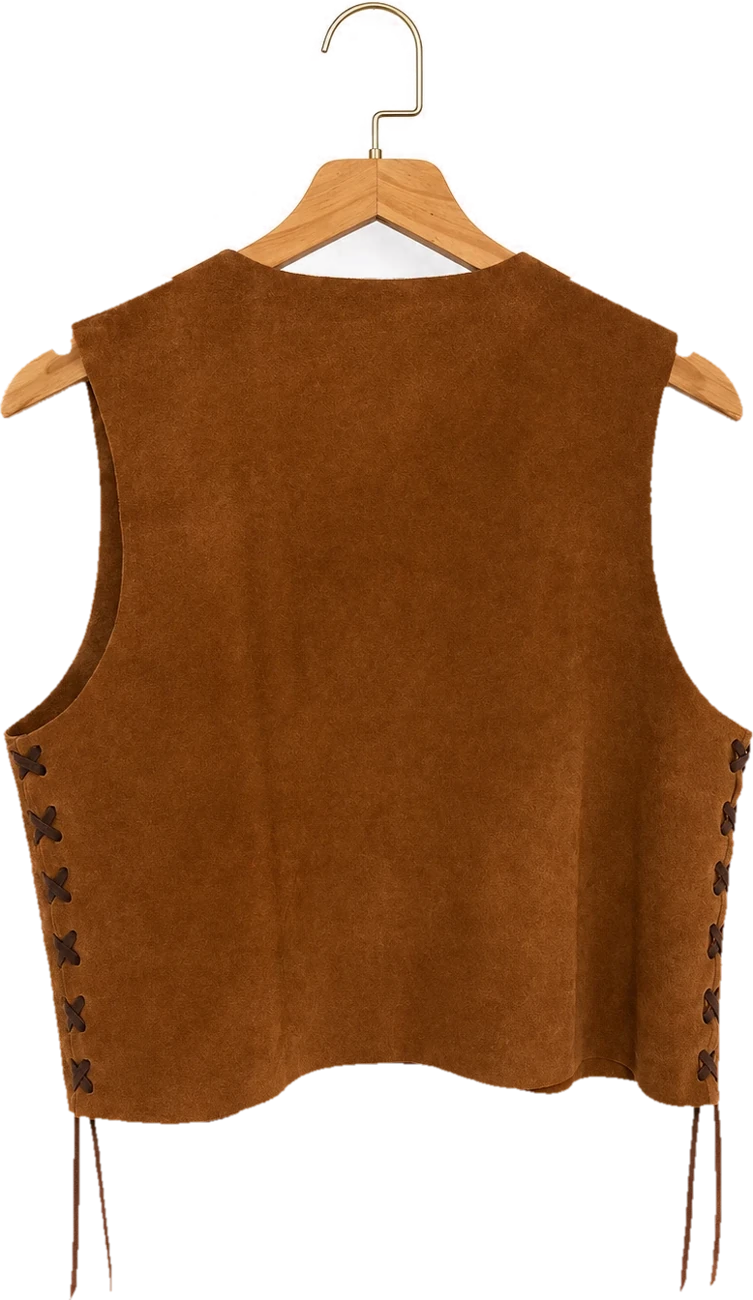
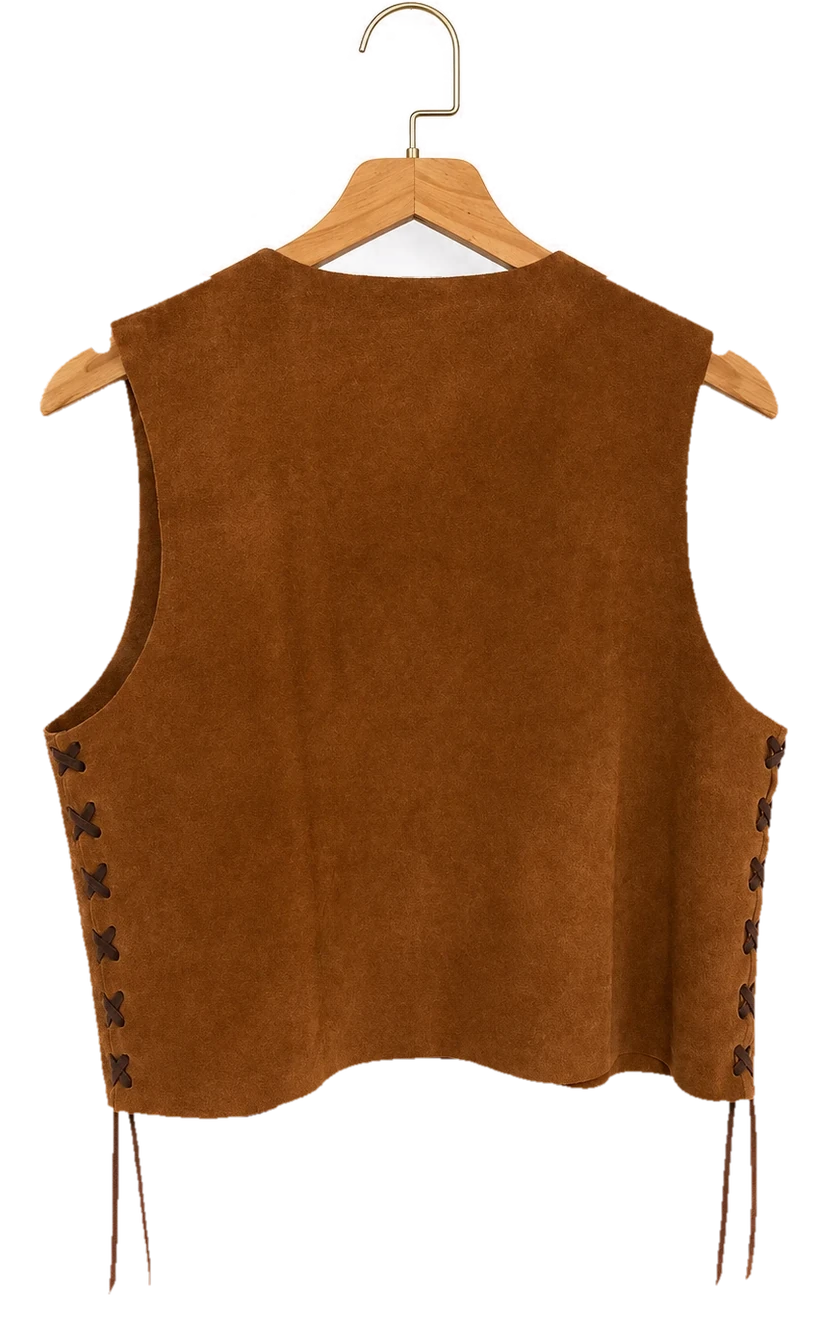
TIRRA: Chaleco Latte Básico, perchas parejas y pieza abierta con miniaturas de detalle
Claude-Session: https://claude.ai/code/session_01FHVGg6LRu9CuR4S83BY3x6

diff --git a/patria/tirra.js b/patria/tirra.js
@@ -212,22 +212,23 @@
      de frente y empuja a las vecinas; cada percha se balancea según cómo se
      mueve. Clic (o segundo toque) la descuelga y se puede girar arrastrando. */
   var PIEZAS = [
-    // hookX / hookXb: dónde está el gancho en cada foto (0 = izquierda, 1 = derecha)
-    { id: "pec-cria",   img: "images/perch-pec-cria.webp?v=6", espalda: "images/perch-pec-cria-b.webp?v=6", hookX: 0.482, hookXb: 0.486 },
-    { id: "cha-cruz",   img: "images/perch-cha-cruz.webp?v=6", espalda: "images/perch-cha-cruz-b.webp?v=6", hookX: 0.506, hookXb: 0.495 }
+    // fotos con la percha, todas en el mismo lienzo (gancho centrado arriba)
+    { id: "pec-cria",  img: "images/perch-pec-cria.webp?v=7",  espalda: "images/perch-pec-cria-b.webp?v=7" },
+    { id: "cha-cruz",  img: "images/perch-cha-cruz.webp?v=7",  espalda: "images/perch-cha-cruz-b.webp?v=7" },
+    { id: "cha-latte", img: "images/perch-cha-latte.webp?v=7", espalda: "images/perch-cha-latte-b.webp?v=7" }
   ].filter(function (x) { return producto(x.id); });
   var riel = document.getElementById("riel");
   var perchero = { abierto: false, cerrar: function () {}, girar: function () {} };
   if (riel && PIEZAS.length) (function () {
-    var ASPECT = 200 / 310, ZOOM = 1.1, GAP = 0.06, MAX_H = 470, MIN_ANCHO = 170, CARRUSEL_H = 360;
-    var n = PIEZAS.length, FAC_MEDIO = PIEZAS.reduce(function (a, x) { return a + (producto(x.id).cat === "collares" ? 0.74 : 1.02); }, 0) / PIEZAS.length, barra = riel.querySelector(".riel__barra");
+    var ASPECT = 200 / 310, ZOOM = 1.1, GAP = 0.06, MAX_H = 470, MIN_ANCHO = 200, CARRUSEL_H = 360;
+    var n = PIEZAS.length, FAC_MEDIO = PIEZAS.reduce(function (a, x) { return a + (producto(x.id).cat === "collares" ? 0.74 : 0.92); }, 0) / PIEZAS.length, barra = riel.querySelector(".riel__barra");
     var nombreEl = document.getElementById("rielNombre"), infoEl = document.getElementById("rielInfo"), puntos = document.getElementById("rielPuntos");
     var tam = { ancho: 0, h: 300, carrusel: false }, activa = null, idxCarrusel = 0, abierta = null, oculta = null;
     var S = { x: [], vx: [], tx: [], esc: [], vesc: [], tesc: [], mece: [], vmece: [], arrastre: -1, agarre: 0, libre: 0, ult: 0, raf: 0 };
     function clamp(v, a, b) { return Math.max(a, Math.min(b, v)); }
     // lugar que ocupa una pieza en la barra (crece con el zoom)
     // los chalecos ocupan toda su caja; los collares, menos
-    function huella(h, esc, i) { var f = i == null ? FAC_MEDIO : (PIEZAS[i]._collar ? 0.74 : 1.02); return h * ASPECT * f * (esc || 1); }
+    function huella(h, esc, i) { var f = i == null ? FAC_MEDIO : (PIEZAS[i]._collar ? 0.74 : 0.92); return h * ASPECT * f * (esc || 1); }
 
     var slots = PIEZAS.map(function (x, i) {
       var p = producto(x.id), b = document.createElement("button");
@@ -430,9 +431,35 @@
       var base = Math.round(A.v / 360) * 360; A.obj = base + (lado === "espalda" ? 180 : 0);
       if (Math.abs(A.obj - A.v) > 180) A.obj -= 360 * Math.sign(A.obj - A.v);
       ladoAct = lado;
-      document.querySelectorAll("#detLados button").forEach(function (b) { b.setAttribute("aria-pressed", String(b.dataset.lado === lado)); });
+      verFoto(null);
+      marcarMini(lado);
       if (REDUCIR) { A.v = A.obj; aplicarGiro(); return; }
       if (!A.raf) A.raf = requestAnimationFrame(girarBucle);
+    }
+    // miniaturas: frente, espalda, detalles y "próximamente"
+    var minis = document.getElementById("detMinis"), fotoEl = document.getElementById("detFoto");
+    function marcarMini(clave) { Array.prototype.forEach.call(minis.children, function (b) { b.setAttribute("aria-pressed", String(b.dataset.clave === clave)); }); }
+    function verFoto(src) {
+      if (!src) { fig.classList.remove("ver-foto"); return; }
+      fotoEl.src = src; fig.classList.add("ver-foto");
+    }
+    function armarMinis(x, p) {
+      minis.innerHTML = "";
+      var lista = [{ clave: "frente", src: x.img, txt: "Frente" }];
+      if (x.espalda) lista.push({ clave: "espalda", src: x.espalda, txt: "Espalda" });
+      (p.fotos || []).forEach(function (f, k) { lista.push({ clave: "foto" + k, src: f, txt: "Detalle " + (k + 1), foto: true }); });
+      lista.push({ clave: "pronto", txt: "Más fotos próximamente" });
+      lista.forEach(function (m) {
+        var b = document.createElement("button"); b.type = "button"; b.dataset.clave = m.clave; b.setAttribute("aria-label", m.txt);
+        if (m.clave === "pronto") { b.className = "detalle__mini detalle__mini--pronto"; b.setAttribute("aria-disabled", "true"); b.innerHTML = "<span>Más fotos</span><small>Próximamente</small>"; }
+        else { b.className = "detalle__mini" + (m.foto ? " detalle__mini--foto" : ""); b.innerHTML = '<img src="' + m.src + '" alt="" loading="lazy">'; }
+        b.addEventListener("click", function () {
+          if (m.clave === "pronto") return;
+          if (m.foto) { verFoto(m.src); marcarMini(m.clave); }
+          else girarA(m.clave);
+        });
+        minis.appendChild(b);
+      });
     }
     function origen(i) { return slots[i].giro.getBoundingClientRect(); }
     function abrir(i) {
@@ -445,10 +472,10 @@
       document.getElementById("detNombre").textContent = p.nombre;
       document.getElementById("detPrecio").textContent = precio(p.precio);
       document.getElementById("detDesc").textContent = p.desc;
-      document.getElementById("detLados").hidden = !x.espalda; document.getElementById("detPista").hidden = !x.espalda;
+      armarMinis(x, p); verFoto(null);
+      document.getElementById("detConsulta").href = linkWhatsapp(CONFIG.mensajeBase + p.nombre + (p.precio == null ? "" : " (" + precio(p.precio) + ")") + ". ¿Está disponible?");
       det.hidden = false; document.body.classList.add("con-modal");
       A.v = 0; A.obj = 0; A.vel = 0; aplicarGiro(); ladoAct = "frente"; girarA("frente");
-      document.getElementById("detPista").hidden = !x.espalda;
       var de = origen(i);
       requestAnimationFrame(function () { det.classList.add("is-visible"); });
       if (!REDUCIR && de.width > 0 && fig.animate) {
@@ -486,11 +513,9 @@
     perchero.cerrar = cerrar;
     perchero.girar = function () { girarA(ladoAct === "frente" ? "espalda" : "frente"); };
     det.addEventListener("click", function (e) { if (e.target.closest("[data-cerrar-det]")) cerrar(); });
-    document.getElementById("detLados").addEventListener("click", function (e) { var b = e.target.closest("button"); if (!b) return; if (b.dataset.lado) girarA(b.dataset.lado); });
     document.getElementById("detAgregar").addEventListener("click", function () { var p = producto(PIEZAS[abierta].id); agregar(p.id, 1); avisar(p.nombre + " — agregado"); });
-    document.getElementById("detFicha").addEventListener("click", function () { var p = producto(PIEZAS[abierta].id); cerrar(); setTimeout(function () { abrirFicha(p); }, 420); });
     var arr = document.getElementById("detArrastre");
-    arr.addEventListener("pointerdown", function (e) { if (!PIEZAS[abierta].espalda) return; A.arr = true; A.x0 = e.clientX; A.a0 = A.v; cancelAnimationFrame(A.raf); A.raf = 0; A.ult = 0; try { arr.setPointerCapture(e.pointerId); } catch (er) {} });
+    arr.addEventListener("pointerdown", function (e) { if (!PIEZAS[abierta].espalda || fig.classList.contains("ver-foto")) return; A.arr = true; A.x0 = e.clientX; A.a0 = A.v; cancelAnimationFrame(A.raf); A.raf = 0; A.ult = 0; try { arr.setPointerCapture(e.pointerId); } catch (er) {} });
     arr.addEventListener("pointermove", function (e) { if (!A.arr) return; A.v = clamp(A.a0 + (e.clientX - A.x0) * 0.45, A.a0 - 220, A.a0 + 220); aplicarGiro(); });
     arr.addEventListener("pointerup", function () { if (!A.arr) return; A.arr = false; var f = ((A.v % 360) + 360) % 360; girarA(f > 90 && f < 270 ? "espalda" : "frente"); });
     arr.addEventListener("pointercancel", function () { A.arr = false; girarA(ladoAct); });

diff --git a/patria/tirra.css b/patria/tirra.css
@@ -134,7 +134,21 @@ body.menu-abierto .header .logo__claro{ display:none; } body.menu-abierto .heade
 .detalle__cerrar:hover{ color:var(--tinta); }
 .detalle__cerrar:focus{ outline:none; } .detalle__cerrar:focus-visible{ outline:1px solid var(--tinta); outline-offset:4px; }
 .detalle.is-visible .detalle__cerrar{ opacity:1; }
-.detalle__grilla{ position:relative; width:100%; max-width:1040px; display:grid; grid-template-columns:minmax(0,1fr) minmax(0,22rem); gap:clamp(24px,5vw,72px); align-items:center; padding-top:30px; }
+.detalle__grilla{ position:relative; width:100%; max-width:1160px; display:grid; grid-template-columns:76px minmax(0,1fr) minmax(0,22rem); gap:clamp(24px,4vw,64px); align-items:center; padding-top:30px; }
+.detalle__minis{ display:flex; flex-direction:column; gap:10px; opacity:0; transition:opacity .5s .2s; }
+.detalle.is-visible .detalle__minis{ opacity:1; }
+.detalle__mini{ position:relative; width:76px; height:96px; padding:0; border:1px solid var(--linea); background:#fff; overflow:hidden; transition:border-color .3s, opacity .3s; opacity:.7; flex:none; }
+.detalle__mini:hover{ opacity:1; }
+.detalle__mini[aria-pressed="true"]{ border-color:var(--tinta); opacity:1; }
+.detalle__mini img{ width:100%; height:100%; object-fit:contain; padding:6px; }
+.detalle__mini--foto img{ object-fit:cover; padding:0; }
+.detalle__mini--pronto{ display:flex; flex-direction:column; align-items:center; justify-content:center; gap:4px; border-style:dashed; cursor:default; opacity:.6; background:transparent; }
+.detalle__mini--pronto span{ font-size:10px; font-weight:700; letter-spacing:-.01em; color:var(--suave); }
+.detalle__mini--pronto small{ font-size:7.5px; letter-spacing:.14em; text-transform:uppercase; color:var(--gris); }
+.detalle__foto{ position:absolute; left:-22%; top:6%; width:144%; aspect-ratio:1; object-fit:cover; opacity:0; pointer-events:none; transition:opacity .45s; }
+.detalle__figura.ver-foto .detalle__foto{ opacity:1; }
+.detalle__figura .detalle__arrastre, .detalle__figura .detalle__hilo{ transition:opacity .45s; }
+.detalle__figura.ver-foto .detalle__arrastre, .detalle__figura.ver-foto .detalle__hilo{ opacity:0; pointer-events:none; }
 .detalle__figura{ position:relative; margin:0 auto; height:min(66vh,600px); aspect-ratio:200/310; transform-origin:50% 0; }
 .detalle__hilo{ position:absolute; left:50%; bottom:100%; width:2px; height:50vh; transform:translateX(-50%); background:linear-gradient(90deg,#8a7d70,#3a2c22); opacity:.7; }
 .detalle__arrastre{ position:absolute; inset:0; perspective:1400px; cursor:grab; touch-action:pan-y; }
@@ -346,7 +360,13 @@ body.con-modal .wa, body.menu-abierto .wa{ opacity:0; pointer-events:none; }
   .intro__txt{ font-size:26px; }
   .perchero__cabeza{ flex-direction:column; align-items:flex-start; gap:10px; }
   .detalle{ align-items:flex-start; padding:56px 20px 30px; }
-  .detalle__grilla{ grid-template-columns:1fr; gap:22px; padding-top:20px; }
+  .detalle__grilla{ grid-template-columns:1fr; gap:18px; padding-top:20px; }
+  .detalle__minis{ order:2; flex-direction:row; overflow-x:auto; justify-content:flex-start; padding:2px; scrollbar-width:none; }
+  .detalle__minis > :first-child{ margin-left:auto; } .detalle__minis > :last-child{ margin-right:auto; }
+  .detalle__minis::-webkit-scrollbar{ display:none; }
+  .detalle__mini{ width:58px; height:72px; }
+  .detalle__figura{ order:1; } .detalle__info{ order:3; }
+  .detalle__foto{ left:-10%; width:120%; top:6%; }
   .detalle__figura{ height:min(48vh,420px); }
   .detalle__info{ text-align:center; align-items:center; }
   .detalle__ficha{ text-align:center; }

diff --git a/patria/index.html b/patria/index.html
@@ -14,7 +14,7 @@
 <link rel="preconnect" href="https://fonts.googleapis.com">
 <link rel="preconnect" href="https://fonts.gstatic.com" crossorigin>
 <link href="https://fonts.googleapis.com/css2?family=Inter:wght@400;700&display=swap" rel="stylesheet">
-<link rel="stylesheet" href="tirra.css?v=11">
+<link rel="stylesheet" href="tirra.css?v=13">
 </head>
 <body>
 
@@ -100,6 +100,7 @@
   <div class="detalle__fondo" data-cerrar-det></div>
   <button class="detalle__cerrar" data-cerrar-det type="button">Cerrar ✕</button>
   <div class="detalle__grilla">
+    <div class="detalle__minis" id="detMinis" aria-label="Fotos de la pieza"></div>
     <div class="detalle__figura" id="detFigura">
       <div class="detalle__hilo" aria-hidden="true"></div>
       <div class="detalle__arrastre" id="detArrastre">
@@ -108,20 +109,16 @@
           <div class="detalle__cara detalle__cara--espalda"><img id="detEspalda" alt=""></div>
         </div>
       </div>
+      <img class="detalle__foto" id="detFoto" alt="">
     </div>
     <div class="detalle__info">
       <p class="detalle__num" id="detNum"></p>
       <h3 class="detalle__nombre" id="detNombre"></h3>
       <p class="detalle__precio" id="detPrecio"></p>
       <p class="detalle__desc" id="detDesc"></p>
-      <div class="detalle__lados" id="detLados">
-        <button type="button" data-lado="frente" aria-pressed="true">Frente</button>
-        <button type="button" data-lado="espalda" aria-pressed="false">Espalda</button>
-        <button type="button" class="detalle__mas" aria-disabled="true" title="Próximamente">Más fotos <span>Próximamente</span></button>
-      </div>
-      <p class="detalle__pista" id="detPista">Arrastrá la pieza para girarla</p>
+      <p class="detalle__pista" id="detPista">Tocá las fotos de la izquierda para ver frente, espalda y detalles</p>
       <button class="boton" id="detAgregar" type="button">Agregar al carrito</button>
-      <button class="detalle__ficha" id="detFicha" type="button">Ver todas las fotos →</button>
+      <a class="detalle__ficha" id="detConsulta" href="#" target="_blank" rel="noopener">Consultar por WhatsApp →</a>
     </div>
   </div>
 </div>
@@ -280,7 +277,7 @@
 
 <script src="https://cdnjs.cloudflare.com/ajax/libs/gsap/3.12.5/gsap.min.js"></script>
 <script src="https://cdnjs.cloudflare.com/ajax/libs/gsap/3.12.5/ScrollTrigger.min.js"></script>
-<script src="productos.js?v=25"></script>
-<script src="tirra.js?v=16"></script>
+<script src="productos.js?v=26"></script>
+<script src="tirra.js?v=17"></script>
 </body>
 </html>

diff --git a/patria/productos.js b/patria/productos.js
@@ -35,8 +35,9 @@ const CONFIG = {
 
 // TODO: faltan los precios reales (hoy todos dicen "Consultar precio")
 const PRODUCTOS = [
-  { id:"pec-cria",    nombre:"Pechera Cría",       cat:"chalecos",   desc:"Gamuza marrón, cordones y bolsillo cebra con tachas", precio:1990, antes:null, tag:"Nuevo", img:"images/prod-pec-cria-b.jpg", img2:"images/prod-pec-cria.jpg", fotos:["images/prod-pec-cria-d.jpg"] },
-  { id:"cha-cruz",    nombre:"Chaleco Cruz",       cat:"chalecos",   desc:"Gamuza suela, tachas en hombros y frente, cordones cruzados", precio:1990, antes:null, tag:"Nuevo", img:"images/prod-cha-cruz.jpg", img2:"images/prod-cha-cruz-b.jpg", fotos:["images/prod-cha-cruz-d.jpg"] },
+  { id:"pec-cria",    nombre:"Pechera Cría",       cat:"chalecos",   desc:"Gamuza marrón, cordones y bolsillo cebra con tachas", precio:1990, antes:null, tag:"Nuevo", img:"images/prod-pec-cria-b.jpg", img2:"images/prod-pec-cria.jpg", fotos:["images/det-pec-cria-1.jpg","images/det-pec-cria-2.jpg","images/prod-pec-cria-d.jpg"] },
+  { id:"cha-cruz",    nombre:"Chaleco Cruz",       cat:"chalecos",   desc:"Gamuza suela, tachas en hombros y frente, cordones cruzados", precio:1990, antes:null, tag:"Nuevo", img:"images/prod-cha-cruz.jpg", img2:"images/prod-cha-cruz-b.jpg", fotos:["images/det-cha-cruz-1.jpg","images/det-cha-cruz-2.jpg","images/det-cha-cruz-3.jpg","images/prod-cha-cruz-d.jpg"] },
+  { id:"cha-latte",   nombre:"Chaleco Latte Básico", cat:"chalecos",  desc:"Gamuza chocolate, abierto adelante, tiras laterales para ajustar", precio:1990, antes:null, tag:"Nuevo", img:"images/prod-cha-latte.jpg", img2:"images/prod-cha-latte-b.jpg", fotos:["images/det-cha-latte-1.jpg","images/det-cha-latte-2.jpg"] },
 
   { id:"col-tierra",  nombre:"Collar Tierra",      cat:"collares",   desc:"Cuero vacuno + piedra natural",       precio:null, antes:null, tag:"Nuevo", img:"images/prod-col-tierra-blanco.jpg", img2:"images/prod-col-tierra.jpg" },
   { id:"col-pampa",   nombre:"Collar Pampa",       cat:"collares",   desc:"Cuero vacuno + dije de nácar",        precio:null, antes:null, tag:"Nuevo", img:"images/prod-col-pampa-blanco.jpg",  img2:"images/prod-col-pampa.jpg" },

diff --git a/patria/images/recortar-percha.py b/patria/images/recortar-percha.py
@@ -1,0 +1,55 @@
+# Recorta una foto de chaleco en percha sobre fondo blanco -> webp transparente
+import sys, numpy as np, cv2
+from PIL import Image
+def recortar(src, dst, tachas=False):
+    rgb=np.asarray(Image.open(src).convert('RGB')).copy()
+    H,W=rgb.shape[:2]; f=rgb.astype(float)
+    d=255-f.min(axis=2); croma=f.max(axis=2)-f.min(axis=2)
+    a=(np.clip((np.maximum(d,croma*2.2)-14)/26,0,1)*255).astype(np.uint8)
+    gancho=np.zeros((H,W),bool)
+    filas=np.nonzero((a>128).sum(axis=1)>W*0.25)[0]; ymad=int(filas[0]) if len(filas) else int(H*0.14)
+    gancho[:ymad+4, int(W*0.3):int(W*0.7)]=True
+    ag=(np.clip((np.maximum(d,croma*3.0)-8)/18,0,1)*255).astype(np.uint8)
+    a[gancho]=np.maximum(a[gancho],ag[gancho])
+    if tachas:
+        inv=(a<=60).astype(np.uint8); n,lab,st,_=cv2.connectedComponentsWithStats(inv,4)
+        for k in range(1,n):
+            x,y,w,h,ar=st[k]
+            if ar<1500 and x>0 and y>0 and x+w<W and y+h<H: a[lab==k]=255
+    blanco=((croma<28)&(f.min(axis=2)>150)&~gancho).astype(np.uint8)
+    hsv=cv2.cvtColor(rgb,cv2.COLOR_RGB2HSV)
+    claro=((hsv[...,2]>110)&(hsv[...,1]<60)&(a>0)&~gancho).astype(np.uint8); claro[:int(H*0.09)]=0
+    fuera=(a<30).astype(np.uint8); toca=cv2.dilate(fuera,np.ones((5,5),np.uint8))
+    n,lab,st,_=cv2.connectedComponentsWithStats(claro,8); q=np.zeros_like(claro)
+    for k in range(1,n):
+        c=lab==k
+        if st[k,cv2.CC_STAT_AREA]>40 and (toca[c]>0).any(): q|=c.astype(np.uint8)
+    q=cv2.dilate(q,np.ones((3,3),np.uint8),iterations=2); q[gancho]=0; a[q>0]=0
+    borde=(cv2.dilate((a<235).astype(np.uint8),np.ones((3,3),np.uint8),iterations=2)&(a>0)).astype(np.uint8)
+    banda=(borde&blanco).astype(np.uint8)
+    bgr=cv2.inpaint(cv2.cvtColor(rgb,cv2.COLOR_RGB2BGR),banda*255,5,cv2.INPAINT_TELEA); rgb=cv2.cvtColor(bgr,cv2.COLOR_BGR2RGB)
+    a[(banda>0)&(a<200)]=0
+    a2=np.clip((a.astype(float)-70)*1.8,0,255); a2[gancho]=a[gancho]
+    a=cv2.GaussianBlur(a2.astype(np.uint8),(3,3),0)
+    im=Image.fromarray(np.dstack([rgb,a]),'RGBA')
+    return im
+def lienzo_comun(pares, ancho_final=820):
+    # mismas proporciones para todas: lienzo fijo centrado en el gancho
+    ims=[(recortar(s, None, t), d) for s,d,t in pares]
+    info=[]
+    for im,d in ims:
+        A=np.asarray(im.getchannel('A')); bb=im.getchannel('A').point(lambda v:255 if v>60 else 0).getbbox()
+        ys,xs=np.nonzero(A[bb[1]:bb[1]+12]>100); hx=int(xs.mean())
+        info.append((bb,hx))
+    medio=max(max(hx-bb[0], bb[2]-hx) for bb,hx in info)+6
+    alto=max(bb[3]-bb[1] for bb,hx in info)+6
+    for (im,d),(bb,hx) in zip(ims,info):
+        c=Image.new('RGBA',(2*medio,alto),(0,0,0,0))
+        c.paste(im.crop((hx-medio, bb[1], hx+medio, bb[1]+alto)),(0,0))
+        esc=ancho_final/c.width; c=c.resize((ancho_final, round(c.height*esc)), Image.LANCZOS)
+        c.save(d,quality=90,method=6); print(d,c.size)
+if __name__=='__main__':
+    I='/tmp/claude-0/-home-user-CositasLav/a0c7a990-b18e-5cae-9d74-25293d1b0935/images/'; P='/home/user/CositasLav/patria/images/'
+    lienzo_comun([(I+'21.webp',P+'perch-pec-cria.webp',False),(I+'22.webp',P+'perch-pec-cria-b.webp',False),
+                  (I+'19.webp',P+'perch-cha-cruz.webp',True),(I+'20.webp',P+'perch-cha-cruz-b.webp',False),
+                  (I+'23.webp',P+'perch-cha-latte.webp',False),(I+'24.webp',P+'perch-cha-latte-b.webp',False)])

diff --git a/notas/patria.md b/notas/patria.md
@@ -107,3 +107,6 @@ la página queda usable sin animaciones.
 - **Vuelta a plano (pedido de Facundo):** el 3D no convenció. Ahora las piezas cuelgan de frente; al pasar se agrandan (zoom) y las vecinas se corren hacia los costados, con balanceo. La pieza descolgada se mantiene (Frente/Espalda con fotos planas). Se borró `perchero3d.js`.
 - Fondo general más blanco: `--fondo:#fbfaf8`, `--caja:#f1eee8`.
 - Perchero solo con chalecos (se sacaron los collares). Sin sombras (en celular se veían raras). En la pieza abierta: Frente / Espalda / "Más fotos" (próximamente, desactivado).
+- Tercer chaleco: **Chaleco Latte Básico** ($1990, gamuza chocolate, abierto). Fotos `prod-cha-latte(-b).jpg` y `perch-cha-latte(-b).webp`.
+- Las 6 fotos del perchero se rearmaron en un **mismo lienzo** (820×1341, gancho centrado) para que todas las perchas tengan el mismo tamaño. Script: `images/recortar-percha.py`.
+- Pieza abierta estilo tienda: columna de miniaturas a la izquierda (frente, espalda, detalles `det-*.jpg` recortados de las fotos en alta, y "Más fotos · Próximamente"), foto grande al centro, datos + carrito + WhatsApp a la derecha. En celular las miniaturas van en fila debajo.
